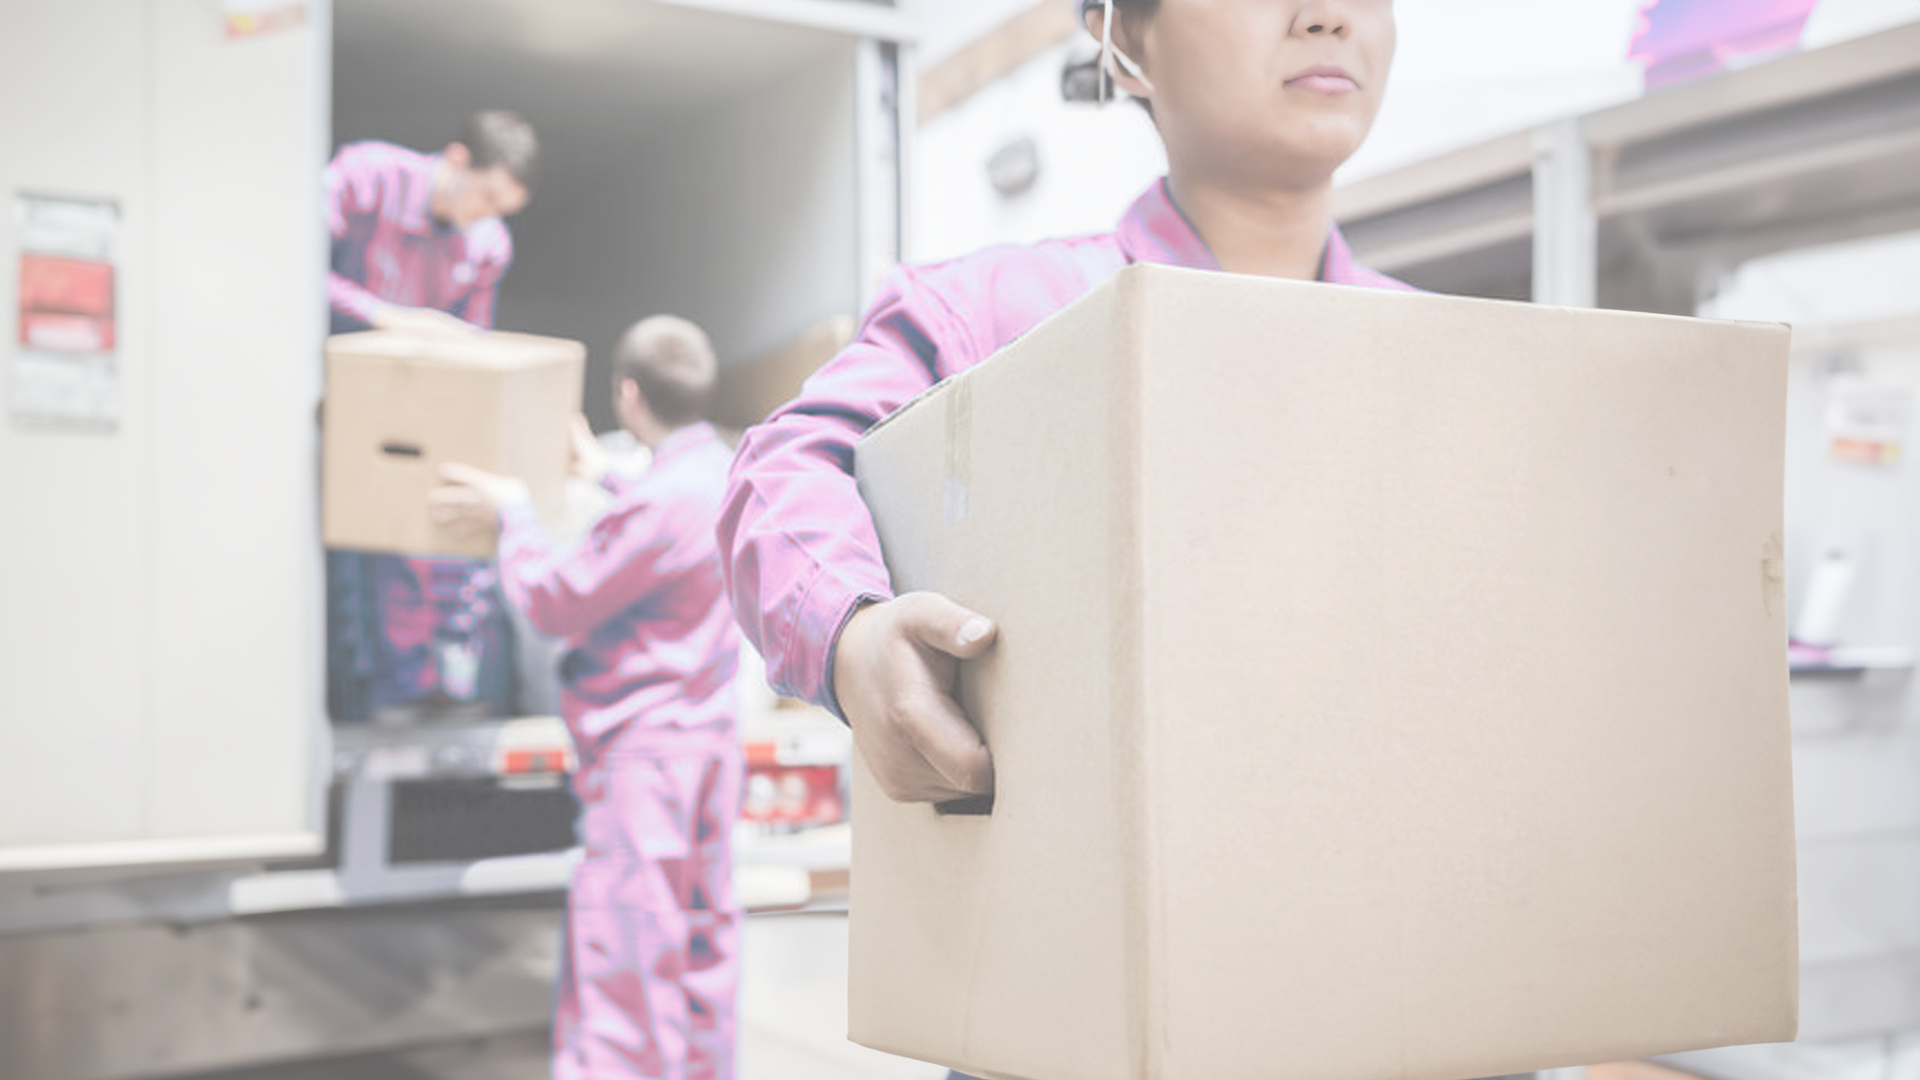
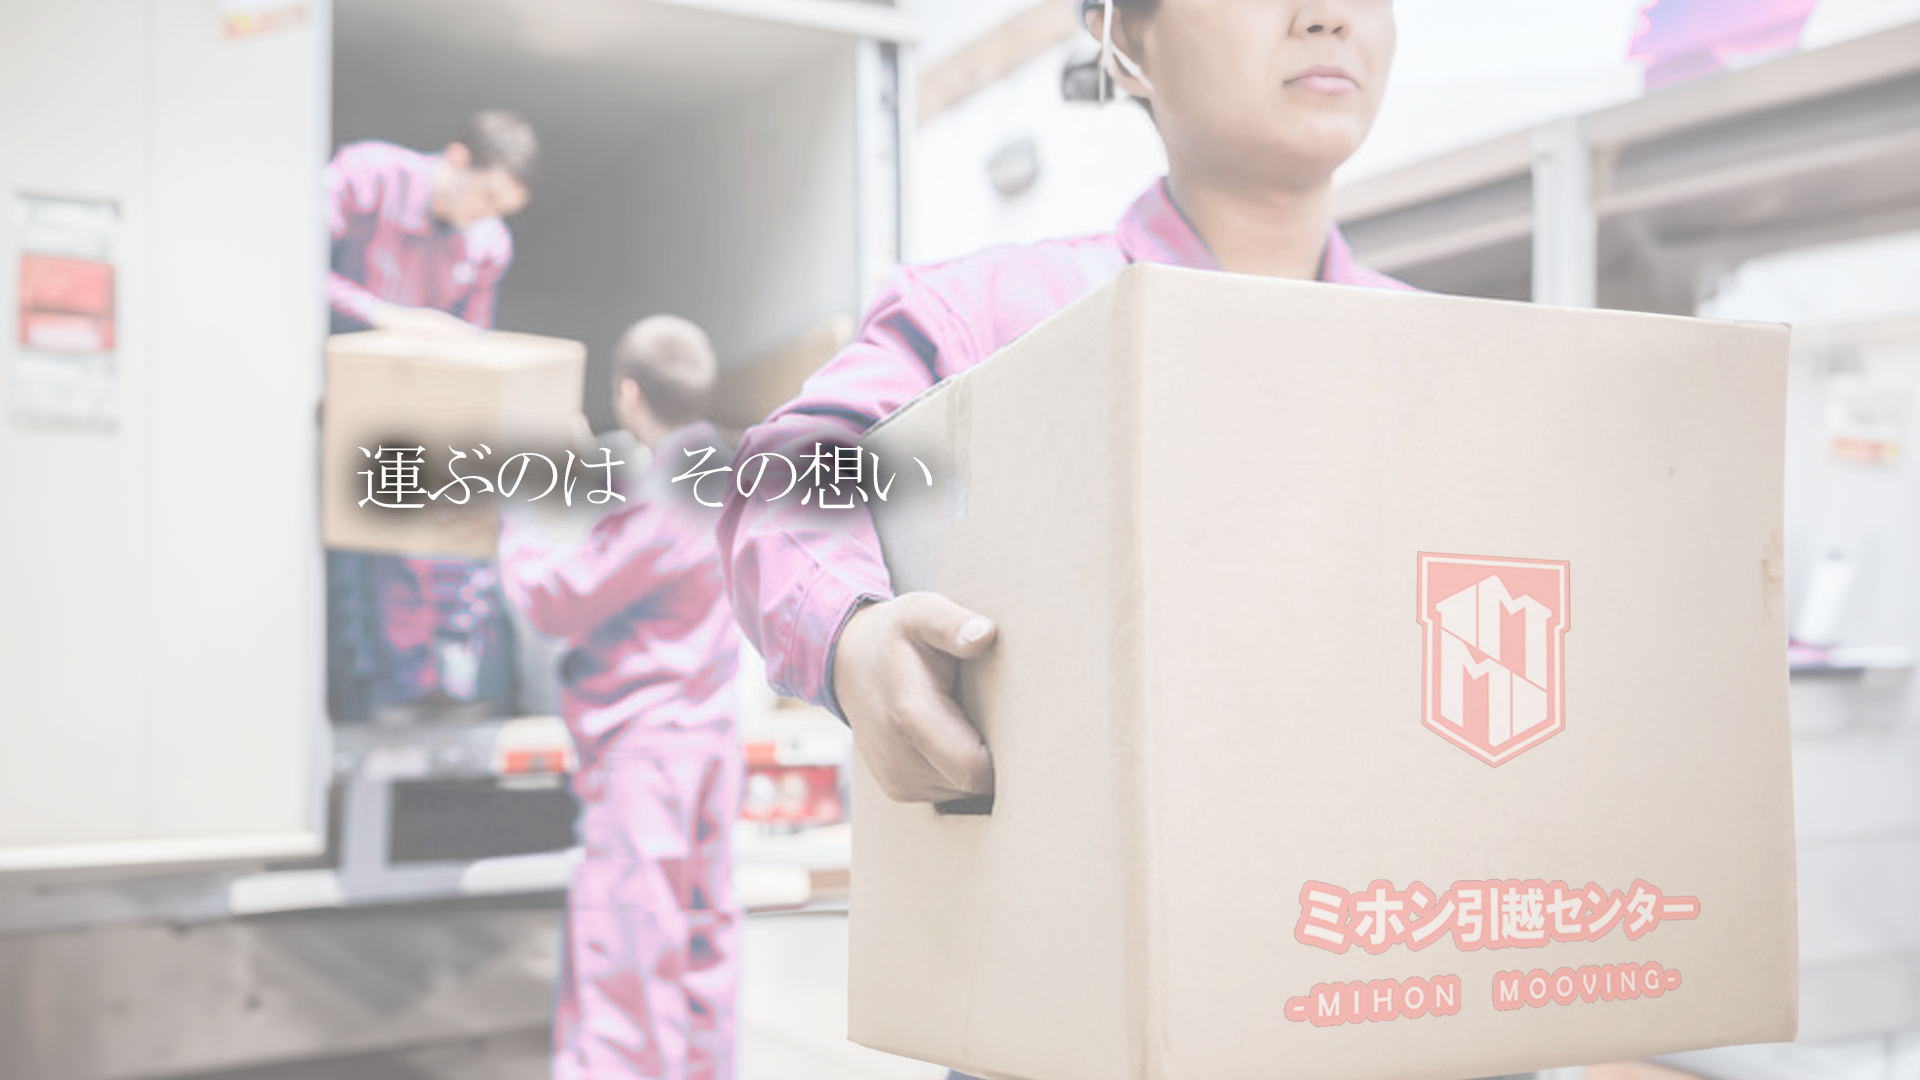
back

Changed region(s): [[0.1562, 0.3667, 0.5, 0.4889], [0.6562, 0.7944, 0.9062, 0.9472], [0.7188, 0.4889, 0.8125, 0.7028]]

diff --git a/index.html b/index.html
@@ -45,8 +45,7 @@
 
     <header class="hero" id="home">
         <div class="hero-text">
-            <h1>あなたの新生活を全力サポート！</h1>
-            <p>安心・安全・スピーディな引越しなら○○引越センターへ</p>
+            
         </div>
     </header>
 
